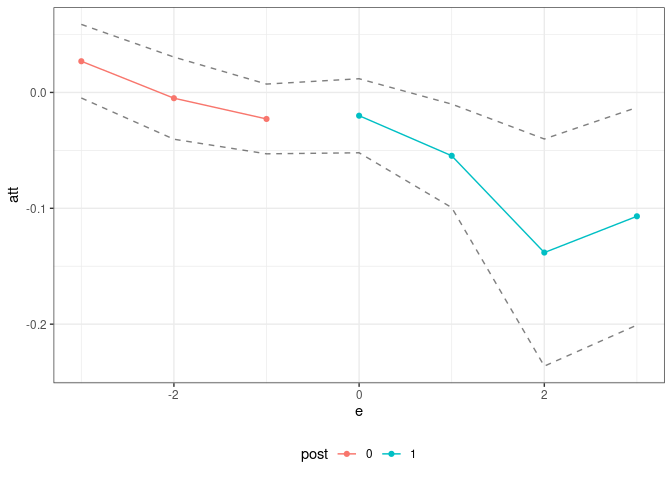
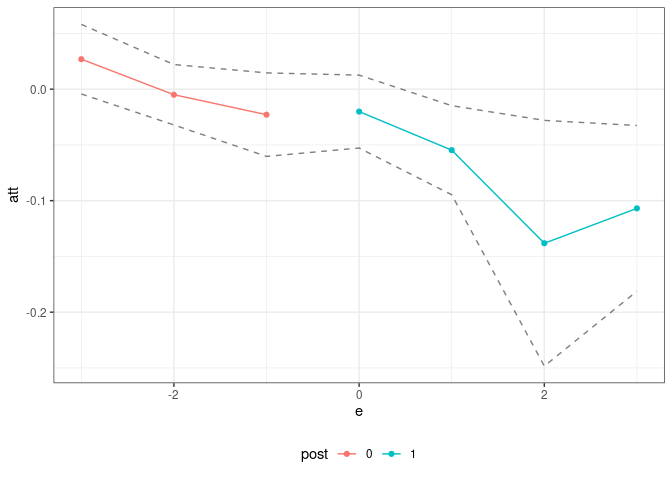
updated readme

diff --git a/README.md b/README.md
@@ -20,8 +20,8 @@ Here are a couple of examples:
 
 The [`did` package](https://bcallaway11.github.io/did/), which is based
 on [Callaway and Sant’Anna
-(2021)](https://doi.org/10.1016/j.jeconom.2020.12.001) includes
-estimates of group-time average treatment effects, \(ATT(g,t)\), based
+(2021)](https://doi.org/10.1016/j.jeconom.2020.12.001), includes
+estimates of group-time average treatment effects, \[ATT(g,t)\], based
 on a difference in differences identification strategy. The following
 example demonstrates that it is easy to compute group-time average
 treatment effects using difference in differences using the `pte`
@@ -40,35 +40,32 @@ did_res <- pte(yname="lemp",
            subset_fun=two_by_two_subset,
            attgt_fun=did_attgt,
            xformla=~lpop) 
-#> Warning in compute.aggte(MP = MP, type = type, balance_e = balance_e, min_e
-#> = min_e, : Simultaneous conf. band is somehow smaller than pointwise one
-#> using normal approximation. Since this is unusual, we are reporting pointwise
-#> confidence intervals
 
 summary(did_res)
 #> 
 #> Overall ATT:  
 #>      ATT    Std. Error     [ 95%  Conf. Int.]  
-#>  -0.0323        0.0126     -0.057     -0.0076 *
+#>  -0.0323        0.0116    -0.0551     -0.0094 *
 #> 
 #> 
 #> Dynamic Effects:
 #>  Event Time Estimate Std. Error   [95%  Conf. Band]  
-#>          -3   0.0269     0.0124 -0.0048      0.0587  
-#>          -2  -0.0050     0.0138 -0.0404      0.0305  
-#>          -1  -0.0229     0.0117 -0.0530      0.0072  
-#>           0  -0.0201     0.0125 -0.0521      0.0118  
-#>           1  -0.0547     0.0174 -0.0994     -0.0101 *
-#>           2  -0.1382     0.0382 -0.2362     -0.0402 *
-#>           3  -0.1069     0.0366 -0.2008     -0.0130 *
+#>          -3   0.0269     0.0124 -0.0043      0.0581  
+#>          -2  -0.0050     0.0107 -0.0321      0.0221  
+#>          -1  -0.0229     0.0148 -0.0603      0.0146  
+#>           0  -0.0201     0.0130 -0.0528      0.0126  
+#>           1  -0.0547     0.0158 -0.0947     -0.0148 *
+#>           2  -0.1382     0.0436 -0.2484     -0.0280 *
+#>           3  -0.1069     0.0294 -0.1812     -0.0326 *
 #> ---
 #> Signif. codes: `*' confidence band does not cover 0
 ggpte(did_res)
 ```
 
-![](man/figures/README-unnamed-chunk-3-1.png)<!-- --> What’s most
-interesting here, is that the only “new” code that needs to be writte is
-in the `did_attgt` function [available
+![](man/figures/README-unnamed-chunk-3-1.png)<!-- -->
+
+What’s most interesting here, is that the only “new” code that needs to
+be writte is in the `did_attgt` function [available
 here](https://github.com/bcallaway11/pte/blob/master/R/attgt_functions.R).
 You will see that this is a very small amount of code.
 
@@ -110,43 +107,43 @@ summary(covid_res)
 #> 
 #> Overall ATT:  
 #>      ATT    Std. Error     [ 95%  Conf. Int.] 
-#>  14.8882       78.5352  -139.0381    168.8144 
+#>  14.8882       83.0773  -147.9403    177.7166 
 #> 
 #> 
 #> Dynamic Effects:
 #>  Event Time Estimate Std. Error     [95%  Conf. Band] 
-#>         -10  -3.7266     3.9879  -13.9130      6.4598 
-#>          -9   2.6607     1.2830   -0.6166      5.9379 
-#>          -8   0.8290     1.9977   -4.2738      5.9317 
-#>          -7   5.2843     2.6228   -1.4150     11.9837 
-#>          -6   2.8555     1.6957   -1.4758      7.1868 
-#>          -5   1.3589     3.8776   -8.5456     11.2635 
-#>          -4   0.3294     4.0663  -10.0572     10.7160 
-#>          -3  -4.2227     4.9141  -16.7747      8.3294 
-#>          -2  -3.8447     2.6881  -10.7109      3.0214 
-#>          -1  -0.2234     3.4578   -9.0556      8.6089 
-#>           0 -10.8156     9.6646  -35.5018     13.8705 
-#>           1 -13.7998    14.5361  -50.9292     23.3295 
-#>           2  -7.8432    10.1117  -33.6713     17.9850 
-#>           3  -4.5541    10.2906  -30.8394     21.7311 
-#>           4  -3.5368    12.5854  -35.6835     28.6099 
-#>           5   8.5221    12.7553  -24.0586     41.1028 
-#>           6   1.1140    18.4808  -46.0912     48.3192 
-#>           7   6.6384    18.1989  -39.8469     53.1238 
-#>           8   7.1288    21.6655  -48.2112     62.4687 
-#>           9  10.8758    35.0682  -78.6985    100.4501 
-#>          10  17.5057    30.8734  -61.3541     96.3655 
-#>          11  40.8318    43.6360  -70.6272    152.2908 
-#>          12  48.6134    46.3820  -69.8597    167.0864 
-#>          13  52.4228    63.8458 -110.6579    215.5035 
-#>          14  50.2000    64.4851 -114.5137    214.9138 
-#>          15  68.2960    72.3489 -116.5042    253.0962 
-#>          16  44.7305    91.5393 -189.0875    278.5485 
-#>          17  61.4670    88.7371 -165.1934    288.1273 
-#>          18  50.4635    99.9847 -204.9265    305.8535 
-#>          19  47.3392   114.5371 -245.2219    339.9003 
-#>          20  28.6326   142.3240 -334.9042    392.1694 
-#>          21   4.3445   130.7575 -329.6480    338.3371 
+#>         -10  -3.7266     2.6367  -10.0604      2.6072 
+#>          -9   2.6607     1.5072   -0.9599      6.2812 
+#>          -8   0.8290     2.3897   -4.9116      6.5695 
+#>          -7   5.2843     2.5049   -0.7329     11.3016 
+#>          -6   2.8555     1.7492   -1.3464      7.0574 
+#>          -5   1.3589     3.7461   -7.6401     10.3579 
+#>          -4   0.3294     4.5347  -10.5638     11.2226 
+#>          -3  -4.2227     4.8133  -15.7852      7.3399 
+#>          -2  -3.8447     2.7544  -10.4614      2.7720 
+#>          -1  -0.2234     4.1382  -10.1641      9.7174 
+#>           0 -10.8156     8.7618  -31.8632     10.2319 
+#>           1 -13.7998    13.8698  -47.1178     19.5181 
+#>           2  -7.8432    12.2763  -37.3333     21.6469 
+#>           3  -4.5541    10.1365  -28.9040     19.7957 
+#>           4  -3.5368     9.9319  -27.3952     20.3215 
+#>           5   8.5221    10.7019  -17.1859     34.2301 
+#>           6   1.1140    16.3065  -38.0574     40.2854 
+#>           7   6.6384    18.3346  -37.4048     50.6817 
+#>           8   7.1288    21.9389  -45.5727     59.8303 
+#>           9  10.8758    32.3153  -66.7518     88.5034 
+#>          10  17.5057    33.7126  -63.4784     98.4898 
+#>          11  40.8318    32.9833  -38.4004    120.0639 
+#>          12  48.6134    41.6148  -51.3534    148.5802 
+#>          13  52.4228    68.2881 -111.6184    216.4640 
+#>          14  50.2000    59.8736  -93.6280    194.0281 
+#>          15  68.2960    64.3350  -86.2491    222.8411 
+#>          16  44.7305    77.8088 -142.1814    231.6424 
+#>          17  61.4670   111.9387 -207.4313    330.3652 
+#>          18  50.4635   111.2992 -216.8987    317.8257 
+#>          19  47.3392   124.5669 -251.8945    346.5728 
+#>          20  28.6326   123.8868 -268.9673    326.2326 
+#>          21   4.3445   130.7164 -309.6615    318.3506 
 #> ---
 #> Signif. codes: `*' confidence band does not cover 0
 ggpte(covid_res) + ylim(c(-1000,1000))
